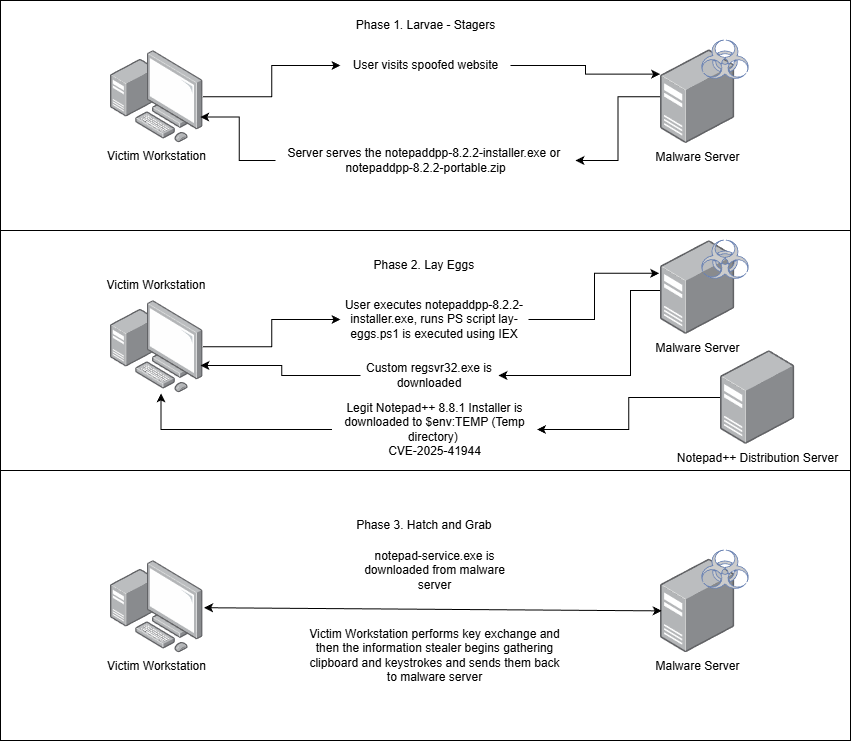
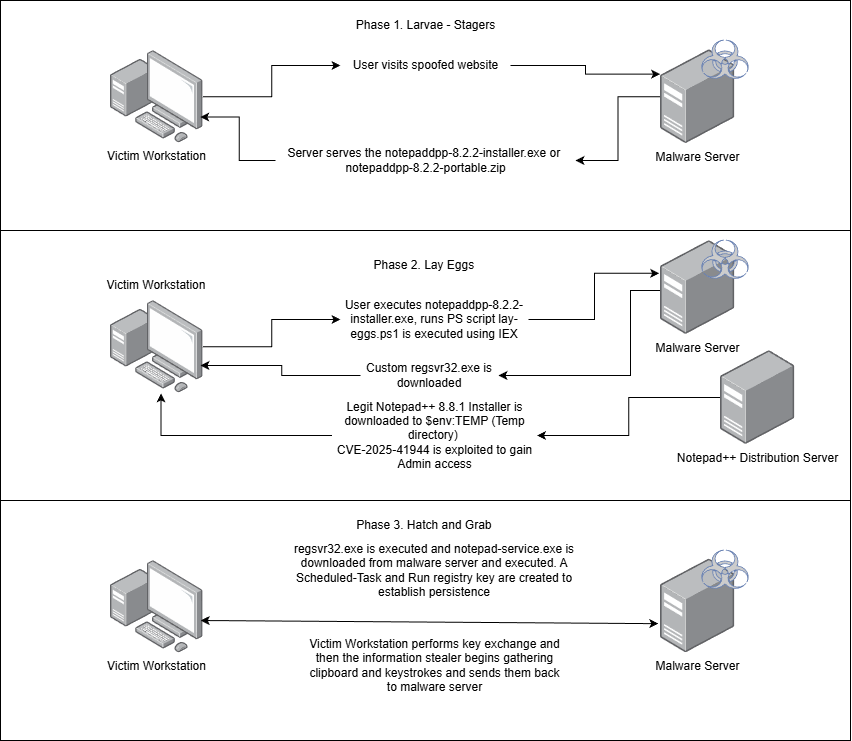
On branch master Your branch is up to date with 'origin/master'.
Changes to be committed:
	modified:   Dobson/Dobsonfly_Diagram.png
	deleted:    Dobson/image/phases/1769383953690.png
	new file:   Dobson/image/phases/1769476467786.png
	modified:   Dobson/phases.md

Changed region(s): [[0.2441, 0.7139, 0.6714, 0.9312], [0.3967, 0.5277, 0.6408, 0.6518]]

diff --git a/Dobson/phases.md b/Dobson/phases.md
@@ -2,9 +2,9 @@
 
 ### Diagram
 
-![1769383953690](image/phases/1769383953690.png)
+![1769476467786](image/phases/1769476467786.png)
 
-### Phase 1. Larvae - Stagers
+### Phase 1. Larvae - Stagers / Initial Access
 
 ##### MITRE ATT&CK Mapping
 
@@ -19,4 +19,17 @@ During this phase, there are two different MiTRE ATT&CK technics utilizes to gai
 
 ##### Phase Exploration
 
-This phase is all about socially engineering the victim to click and download an artifact known as "notepaddpp-8.2.2-installer.exe"
+This phase is all about socially engineering the victim to click and download an artifact known as "notepaddpp-8.2.2-installer.exe". This initial stager is what makes everything else happen within seconds! The executable is compiled from a PowerShell script using the PS2EXE program.
+
+```powershell
+ps2EXE -InputFile .\larvae\egg.ps1 -OutputFile .\notepaddpp-8.2.2-installer.exe
+```
+
+This PowerShell script reaches out to the malware server running to go program listed under the server folder. From here the server serves a PowerShell script called ""lay-eggs.ps1". This script is then executed into memory, and the starts phase 2!
+
+
+### Phase 2. Lay Eggs - Execution / Privilege Escalation
+
+##### MITRE ATT&CK Mapping
+
+During this phase, there are
